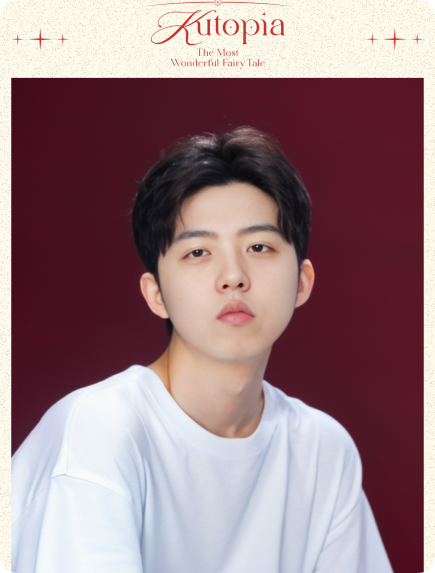
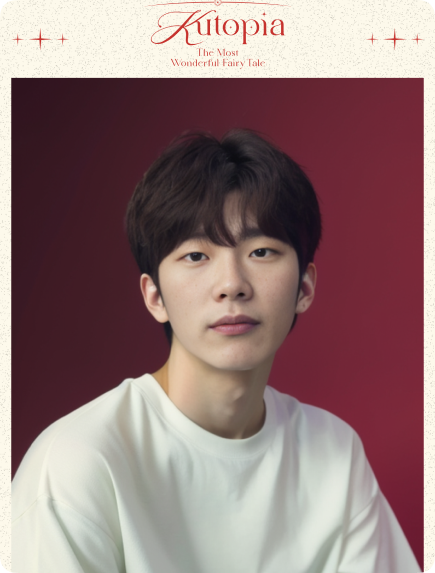
대문 사진 변경

diff --git a/src/pages/MainPage/index.tsx b/src/pages/MainPage/index.tsx
@@ -42,9 +42,9 @@ export type userInfoProps = {
 const PagingImagesList = [
   "/img/Paging1.png",
   "/img/Paging2.png",
-  "/img/Paging3.png",
-  "/img/Paging4.png",
-  "/img/Paging5.png",
+  // "/img/Paging3.png",
+  // "/img/Paging4.png",
+  // "/img/Paging5.png",
 ];
 export const MainPage = () => {
   const [user, setUser] = useRecoilState(userInfo);
